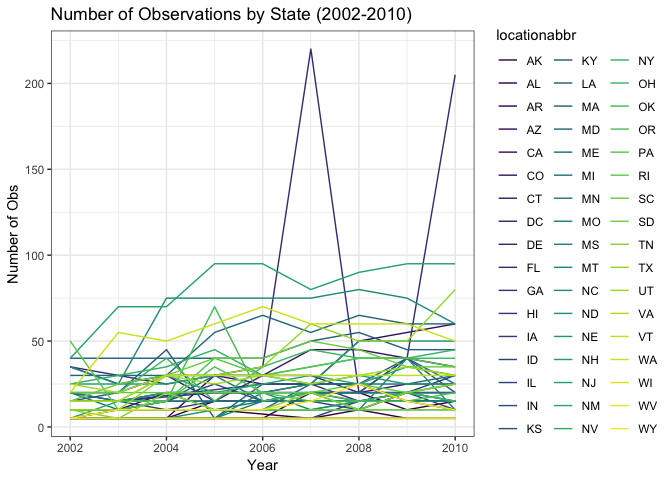
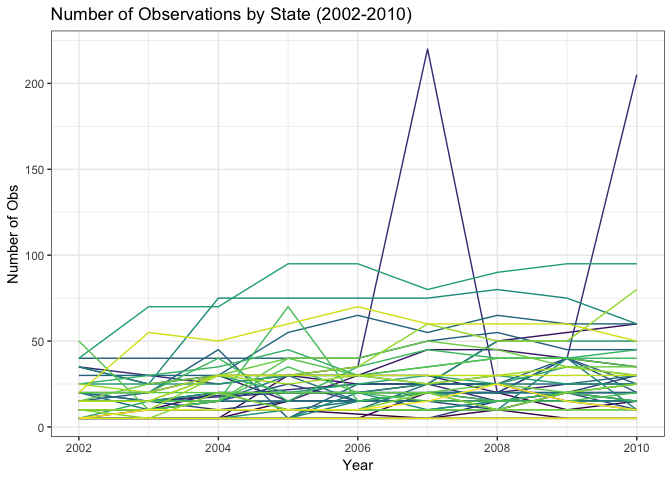
finished problem 1

diff --git a/p8105_hw3_ms5533.md b/p8105_hw3_ms5533.md
@@ -35,29 +35,24 @@ locations?_*
 
 ``` r
 # Filter by year, group by state, summarize number of locations in each state
+
 brfss_data %>% 
   filter(year == 2002) %>% 
   group_by(locationabbr) %>% 
   summarise(
-    number = n()
-  )
-## # A tibble: 49 x 2
-##    locationabbr number
-##    <chr>         <int>
-##  1 AK                5
-##  2 AL                5
-##  3 AR                5
-##  4 AZ               10
-##  5 CA                5
-##  6 CO               20
-##  7 CT               35
-##  8 DC                5
-##  9 DE               15
-## 10 FL               35
-## # ... with 39 more rows
+    number = n_distinct(locationdesc)
+  ) %>% 
+  filter(number == 7)
+## # A tibble: 3 x 2
+##   locationabbr number
+##   <chr>         <int>
+## 1 CT                7
+## 2 FL                7
+## 3 NC                7
 ```
 
-**None** (????)
+**Connecticut, Florida, and North Caroline** were observed at 7
+locations in 2002.
 
 2.  *_Make a “spaghetti plot” that shows the number of observations in
     each state from 2002 to
@@ -67,7 +62,8 @@ brfss_data %>%
 
 ``` r
 # Group by year and state, summarize number of locations in each state (n)
-# Line plot of year vs n
+# Line plot of year vs n, turn off legend --> too many states
+
 brfss_data %>% 
   group_by(year, locationabbr) %>% 
   summarise(
@@ -80,15 +76,10 @@ brfss_data %>%
     y = "Number of Obs", 
     legend = "State") +
   viridis::scale_color_viridis(discrete = TRUE) +
-  theme(legend.position = "right")
+  theme(legend.position = "none")
 ```
 
 ![](p8105_hw3_ms5533_files/figure-gfm/unnamed-chunk-3-1.png)<!-- -->
-
-``` r
-
-# CANNOT GET LEGEND TO LABEL
-```
 
 3.  *_Make a table showing, for the years 2002, 2006, and 2010, the mean
     and standard deviation of the proportion of “Excellent” responses
@@ -99,29 +90,23 @@ brfss_data %>%
 ``` r
 # Filter: 1) NY, 2) year (2002, 2006, 2010)
 # Group by location 
-# Confused about how to get proportion, but do notice the order is the same each time (excellent --> poor)
+# "data_value" = proportion 
 
 brfss_data %>% 
   filter(locationabbr == "NY") %>% 
   filter(year == 2002 | year == 2006 | year == 2010) %>% 
-  group_by(locationdesc)
-## # A tibble: 100 x 5
-## # Groups:   locationdesc [9]
-##     year locationabbr locationdesc      response  data_value
-##    <int> <chr>        <chr>             <fct>          <dbl>
-##  1  2010 NY           NY - Bronx County Excellent      17.6 
-##  2  2010 NY           NY - Bronx County Very good      25.9 
-##  3  2010 NY           NY - Bronx County Good           35.1 
-##  4  2010 NY           NY - Bronx County Fair           16.7 
-##  5  2010 NY           NY - Bronx County Poor            4.70
-##  6  2010 NY           NY - Erie County  Excellent      17.2 
-##  7  2010 NY           NY - Erie County  Very good      37.9 
-##  8  2010 NY           NY - Erie County  Good           29.6 
-##  9  2010 NY           NY - Erie County  Fair           12.7 
-## 10  2010 NY           NY - Erie County  Poor            2.50
-## # ... with 90 more rows
-  
-# mutate(prop_excellent = (excellent) /(excellent + very_good + good + fair + poor)) does not work anymore because data structrue is long, not wide
+  filter(response == "Excellent") %>% 
+  group_by(year) %>% 
+  summarise(
+    mean_excellent = mean(data_value), 
+    sd_excellent = sd(data_value)
+  )
+## # A tibble: 3 x 3
+##    year mean_excellent sd_excellent
+##   <int>          <dbl>        <dbl>
+## 1  2002           24.0         4.49
+## 2  2006           22.5         4.00
+## 3  2010           22.7         3.57
 ```
 
 4.  *_For each year and state, compute the average proportion in each
@@ -129,6 +114,31 @@ brfss_data %>%
     Make a five-panel plot that shows, for each response category
     separately, the distribution of these state-level averages over
     time._*
+
+<!-- end list -->
+
+``` r
+# Group by year, state, and response, mean of "data_value"
+# Line plot year vs mean, facet by "response", turn off legend --> too many states 
+
+brfss_data %>% 
+  group_by(year, locationabbr, response) %>% 
+  summarise(
+    mean = mean(data_value, na.rm = TRUE)
+  ) %>% 
+  ggplot(aes(x = year, y = mean, color = locationabbr)) +
+  geom_line(alpha = .5) +
+  facet_grid(~ response) + 
+  labs(
+    title = "Average Percent of Each Response by State (2002-2010)", 
+    x = "Year", 
+    y = "Average Percent", 
+    legend = "State") +
+  viridis::scale_color_viridis(discrete = TRUE) +
+  theme(legend.position = "none")
+```
+
+![](p8105_hw3_ms5533_files/figure-gfm/unnamed-chunk-5-1.png)<!-- -->
 
 ## Problem 2
 
